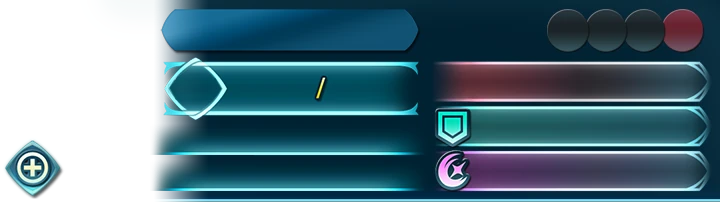
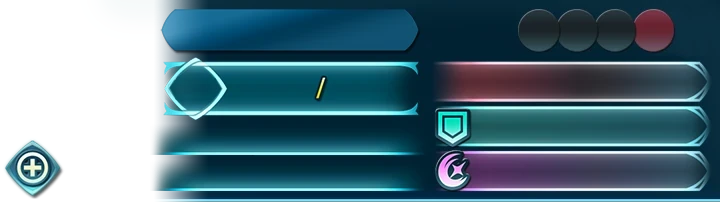
online: Add X slot support on condensed template

Changed region(s): [[0.7028, 0.0297, 0.9778, 0.2673]]

diff --git a/static/online/imagerender.js b/static/online/imagerender.js
@@ -411,6 +411,10 @@ async function condensed() {
 		"C": selectC.value == "None" ? false : selectC.value,
 		"S": selectS.value == "None" ? false : selectS.value
 	};
+	// Add the X slot only if it exists
+	if (selectX.value != "None") {
+		passives["X"] = selectX.value;
+	}
 	var summoner = selectsummoner.value == "None" ? false : selectsummoner.value;
 	var buffs = [
 		0,
@@ -455,14 +459,14 @@ async function condensed() {
 
 	// Print the level string
 	preview.font = '20px FeH-Font'; preview.fillStyle = "#ffffff"; preview.strokeStyle = '#0a2533'; preview.textAlign = 'center';
-	preview.strokeText(languages[language]["MID_LEVEL2"], 501, 6); preview.fillText(languages[language]["MID_LEVEL2"], 501, 6);
+	preview.strokeText(languages[language]["MID_LEVEL2"], 472, 6); preview.fillText(languages[language]["MID_LEVEL2"], 472, 6);
 	// Print the level 40. It was hardcoded previously so we just do this to make sure it doesn't look off side by side with the merge count
 	var level = selectlevel.value == "level1" ? 1 : 40;
-	printnumbers(preview, level, 1, 480, 30, "start");
+	printnumbers(preview, level, 1, 451, 30, "start");
 
 	// If we have merges we add the text next to the level
 	if (merges > 0) {
-		printnumbers(preview, "+", 1, 518, 32, "start");
+		printnumbers(preview, "+", 1, 489, 32, "start");
 	}
 
 	preview.font = '24px FeH-Font'; preview.textAlign = 'start';

diff --git a/static/online/utilities.js b/static/online/utilities.js
@@ -307,10 +307,11 @@ passiverender = {
 };
 // Condensed canvas position to render images passive icons at
 passivecondensedrender = {
-	"A": {"icon": [547, 9], "indicator": [572, 30]},
-	"B": {"icon": [585, 9], "indicator": [610, 32]},
-	"C": {"icon": [623, 9], "indicator": [651, 33]},
-	"S": {"icon": [661, 9], "indicator": [684, 32]}
+	"A": {"icon": [518, 9], "indicator": [543, 33]},
+	"B": {"icon": [556, 9], "indicator": [581, 35]},
+	"C": {"icon": [594, 9], "indicator": [622, 35]},
+	"S": {"icon": [632, 9], "indicator": [655, 35]},
+	"X": {"icon": [670, 9], "indicator": [696, 35]}
 };
 // Echoes canvas position to render images passive icons at
 passiveechoesrender = {
